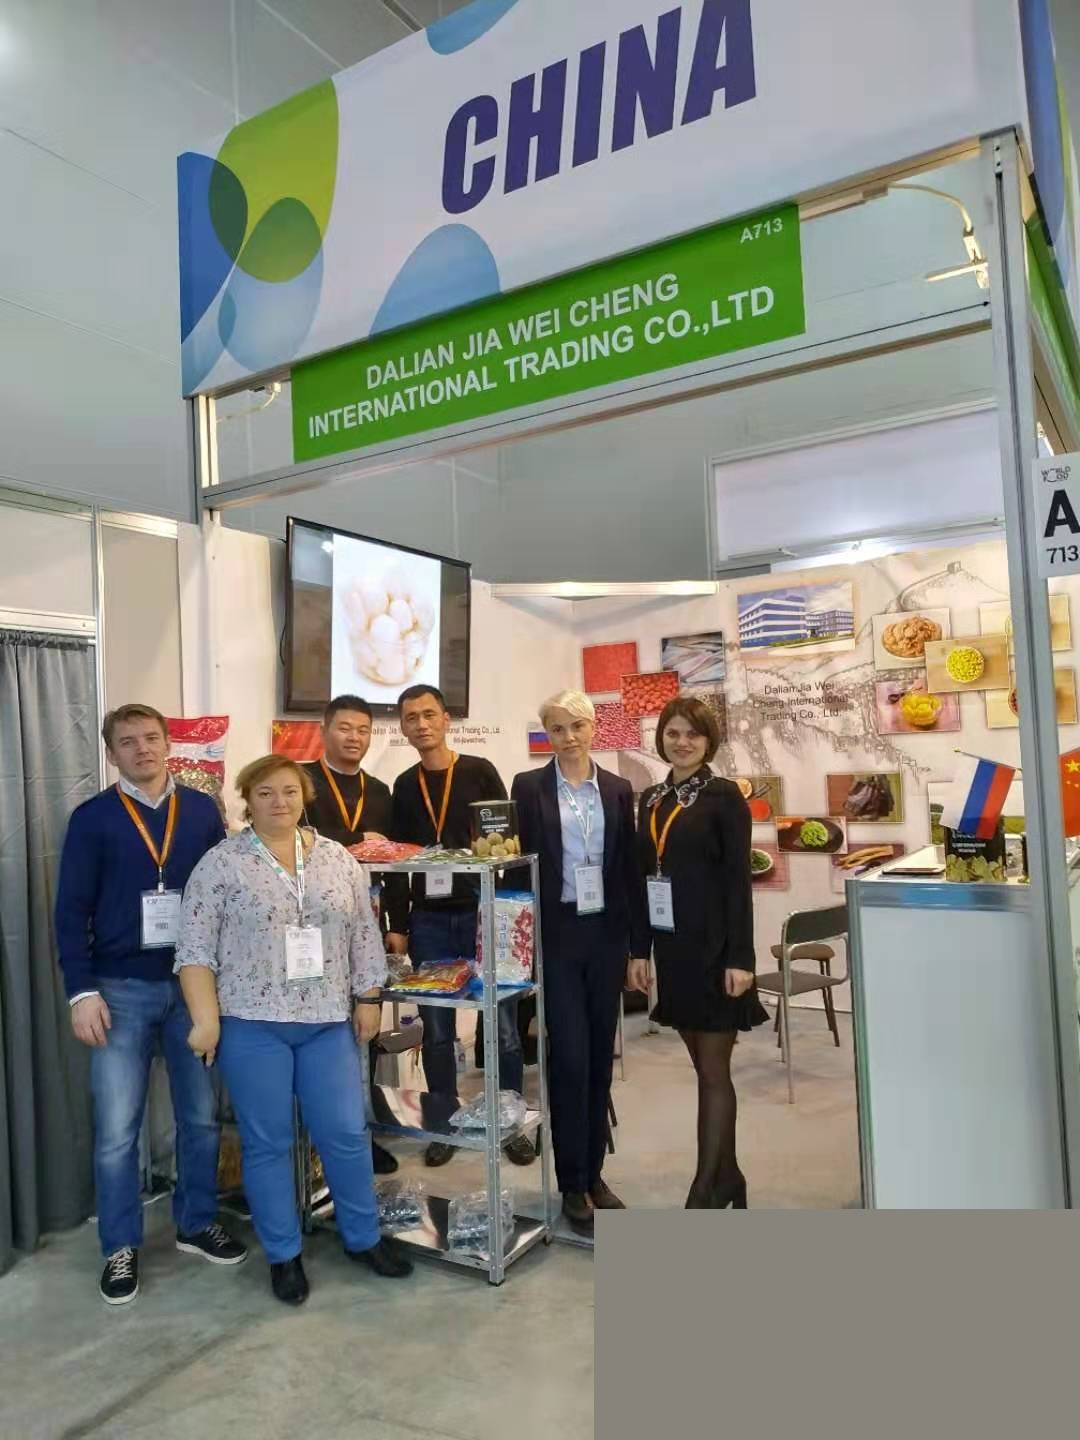
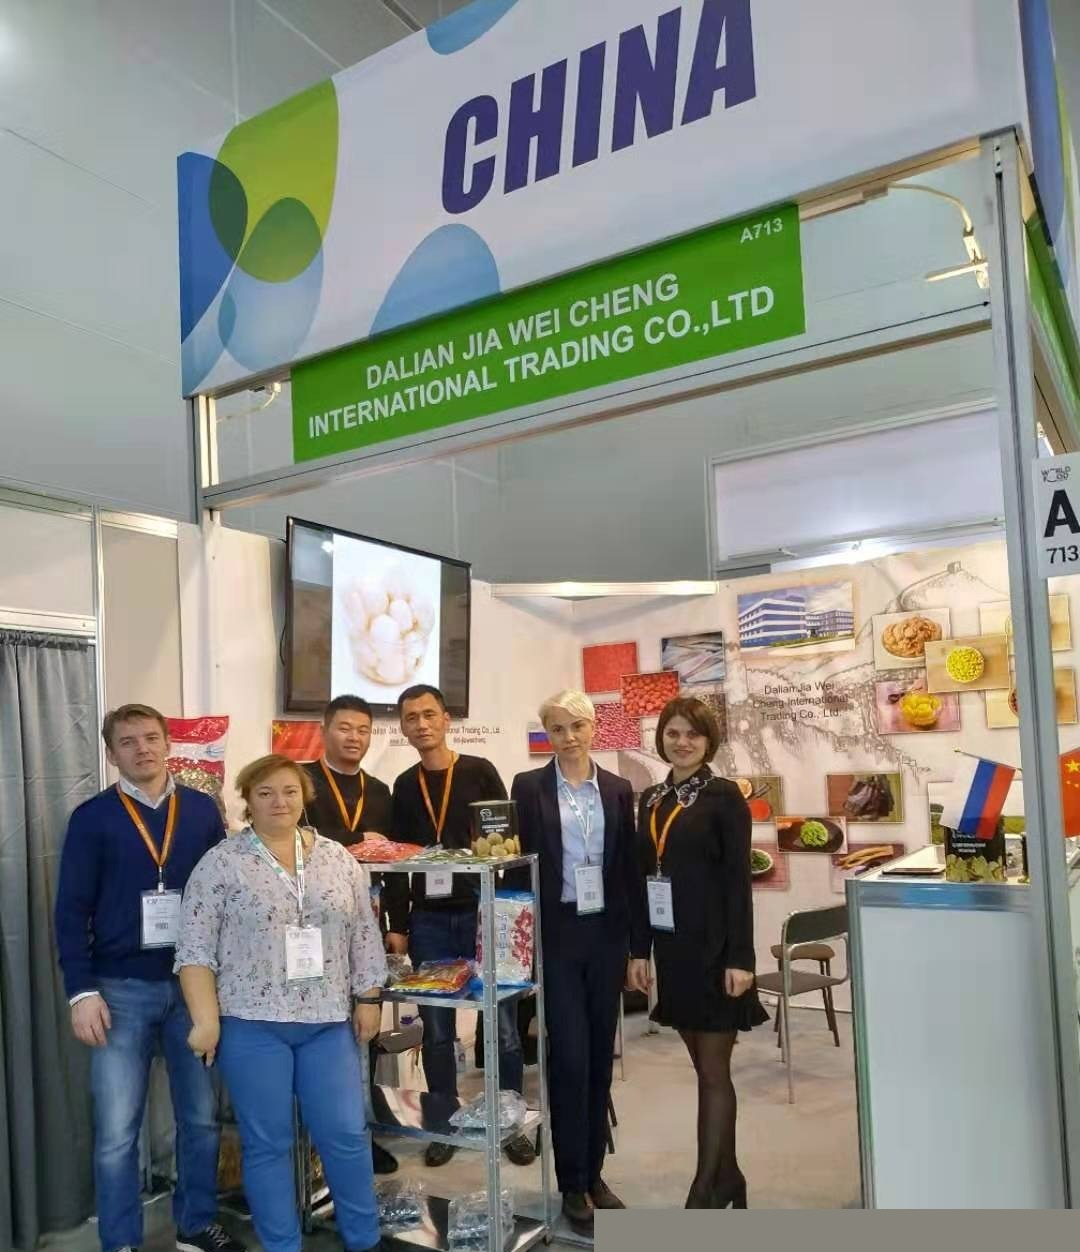
cover panels 1&3 bg-position, expo-partners 4 people visible

diff --git a/mediakit.html b/mediakit.html
@@ -157,11 +157,11 @@ ul.w li::before{border-left-color:#fff}
 
   <!-- Слой 1: статусные фото Анастасии по бокам — производство/выставки, ч/б, единый тон -->
   <!-- лев.внеш.: стенд WorldFood — Dalian Jia Wei Cheng -->
-  <div style="position:absolute;left:-10px;top:155px;width:388px;height:590px;border-radius:24px;overflow:hidden;filter:grayscale(1) brightness(.85) contrast(1.05);z-index:1;background:url(photos/IMG_4975_clean.jpg) 40% 15%/cover no-repeat"></div>
+  <div style="position:absolute;left:-10px;top:155px;width:388px;height:590px;border-radius:24px;overflow:hidden;filter:grayscale(1) brightness(.85) contrast(1.05);z-index:1;background:url(photos/IMG_4975_clean.jpg) 14% 0%/cover no-repeat"></div>
   <!-- лев.внутр.: выступление на DIIF Далянь -->
   <div style="position:absolute;left:395px;top:175px;width:386px;height:548px;border-radius:24px;overflow:hidden;filter:grayscale(1) brightness(.85) contrast(1.05);z-index:1;background:url(photos/cover-diif.jpg) center 15%/cover no-repeat"></div>
   <!-- пр.внутр.: WorldFood переговоры на стенде -->
-  <div style="position:absolute;left:1180px;top:175px;width:390px;height:548px;border-radius:24px;overflow:hidden;filter:grayscale(1) brightness(.85) contrast(1.05);z-index:1;background:url(photos/cover-worldfood-booth.jpg) 65% 30%/cover no-repeat"></div>
+  <div style="position:absolute;left:1180px;top:175px;width:390px;height:548px;border-radius:24px;overflow:hidden;filter:grayscale(1) brightness(.85) contrast(1.05);z-index:1;background:url(photos/cover-worldfood-booth.jpg) 52% 20%/cover no-repeat"></div>
   <!-- пр.внеш.: китайский храм с партнёром -->
   <div style="position:absolute;left:1581px;top:155px;width:388px;height:590px;border-radius:24px;overflow:hidden;filter:grayscale(1) brightness(.85) contrast(1.05);z-index:1;background:url(photos/cover-temple.jpg) center 15%/cover no-repeat"></div>
 
@@ -471,8 +471,8 @@ ul.w li::before{border-left-color:#fff}
 
     <!-- Правая: 2 фото -->
     <div style="width:380px;flex-shrink:0;display:flex;flex-direction:column;gap:16px">
-      <div style="flex:1;border-radius:20px;overflow:hidden;
-        background:url(photos/expo-partners.jpg) center 40%/cover no-repeat"></div>
+      <div style="flex:1;border-radius:20px;overflow:hidden;background-color:rgba(11,59,52,.9);
+        background:url(photos/expo-partners.jpg) 8% 30%/490px auto no-repeat;background-color:rgba(11,59,52,.9)"></div>
       <div style="flex:1;border-radius:20px;overflow:hidden;
         background:url(photos/factory-visit.jpg) center 30%/cover no-repeat"></div>
     </div>
